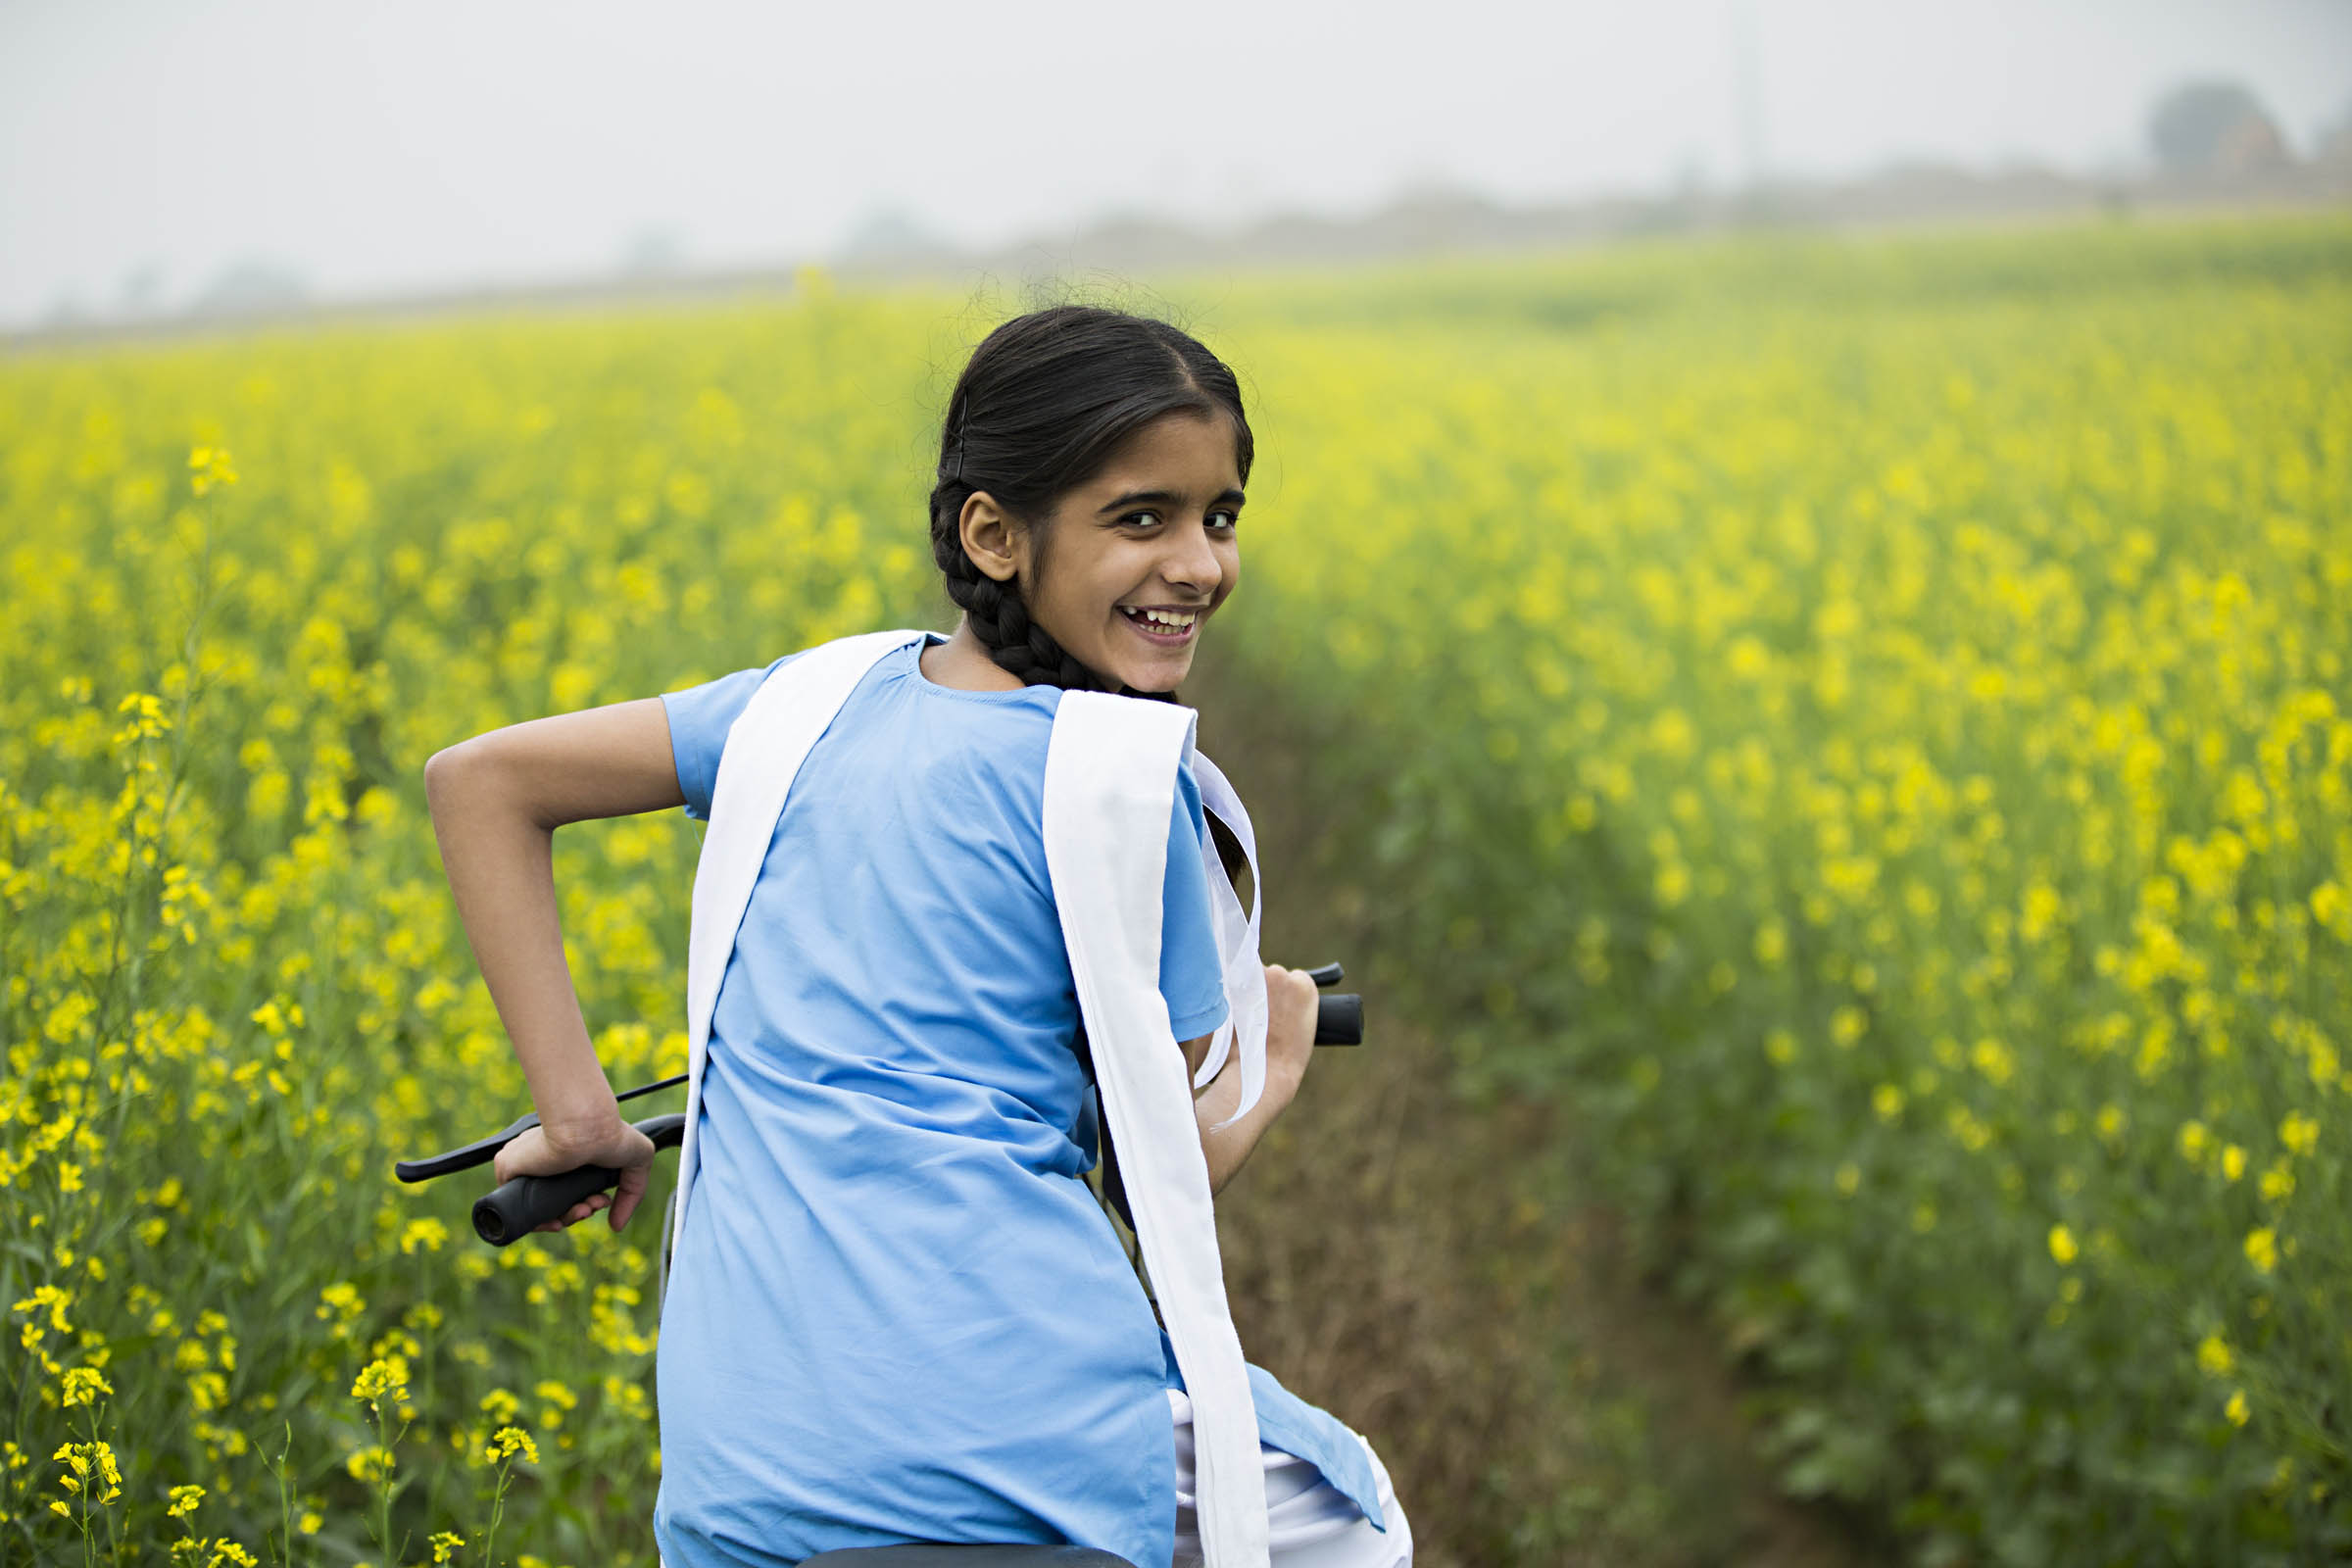
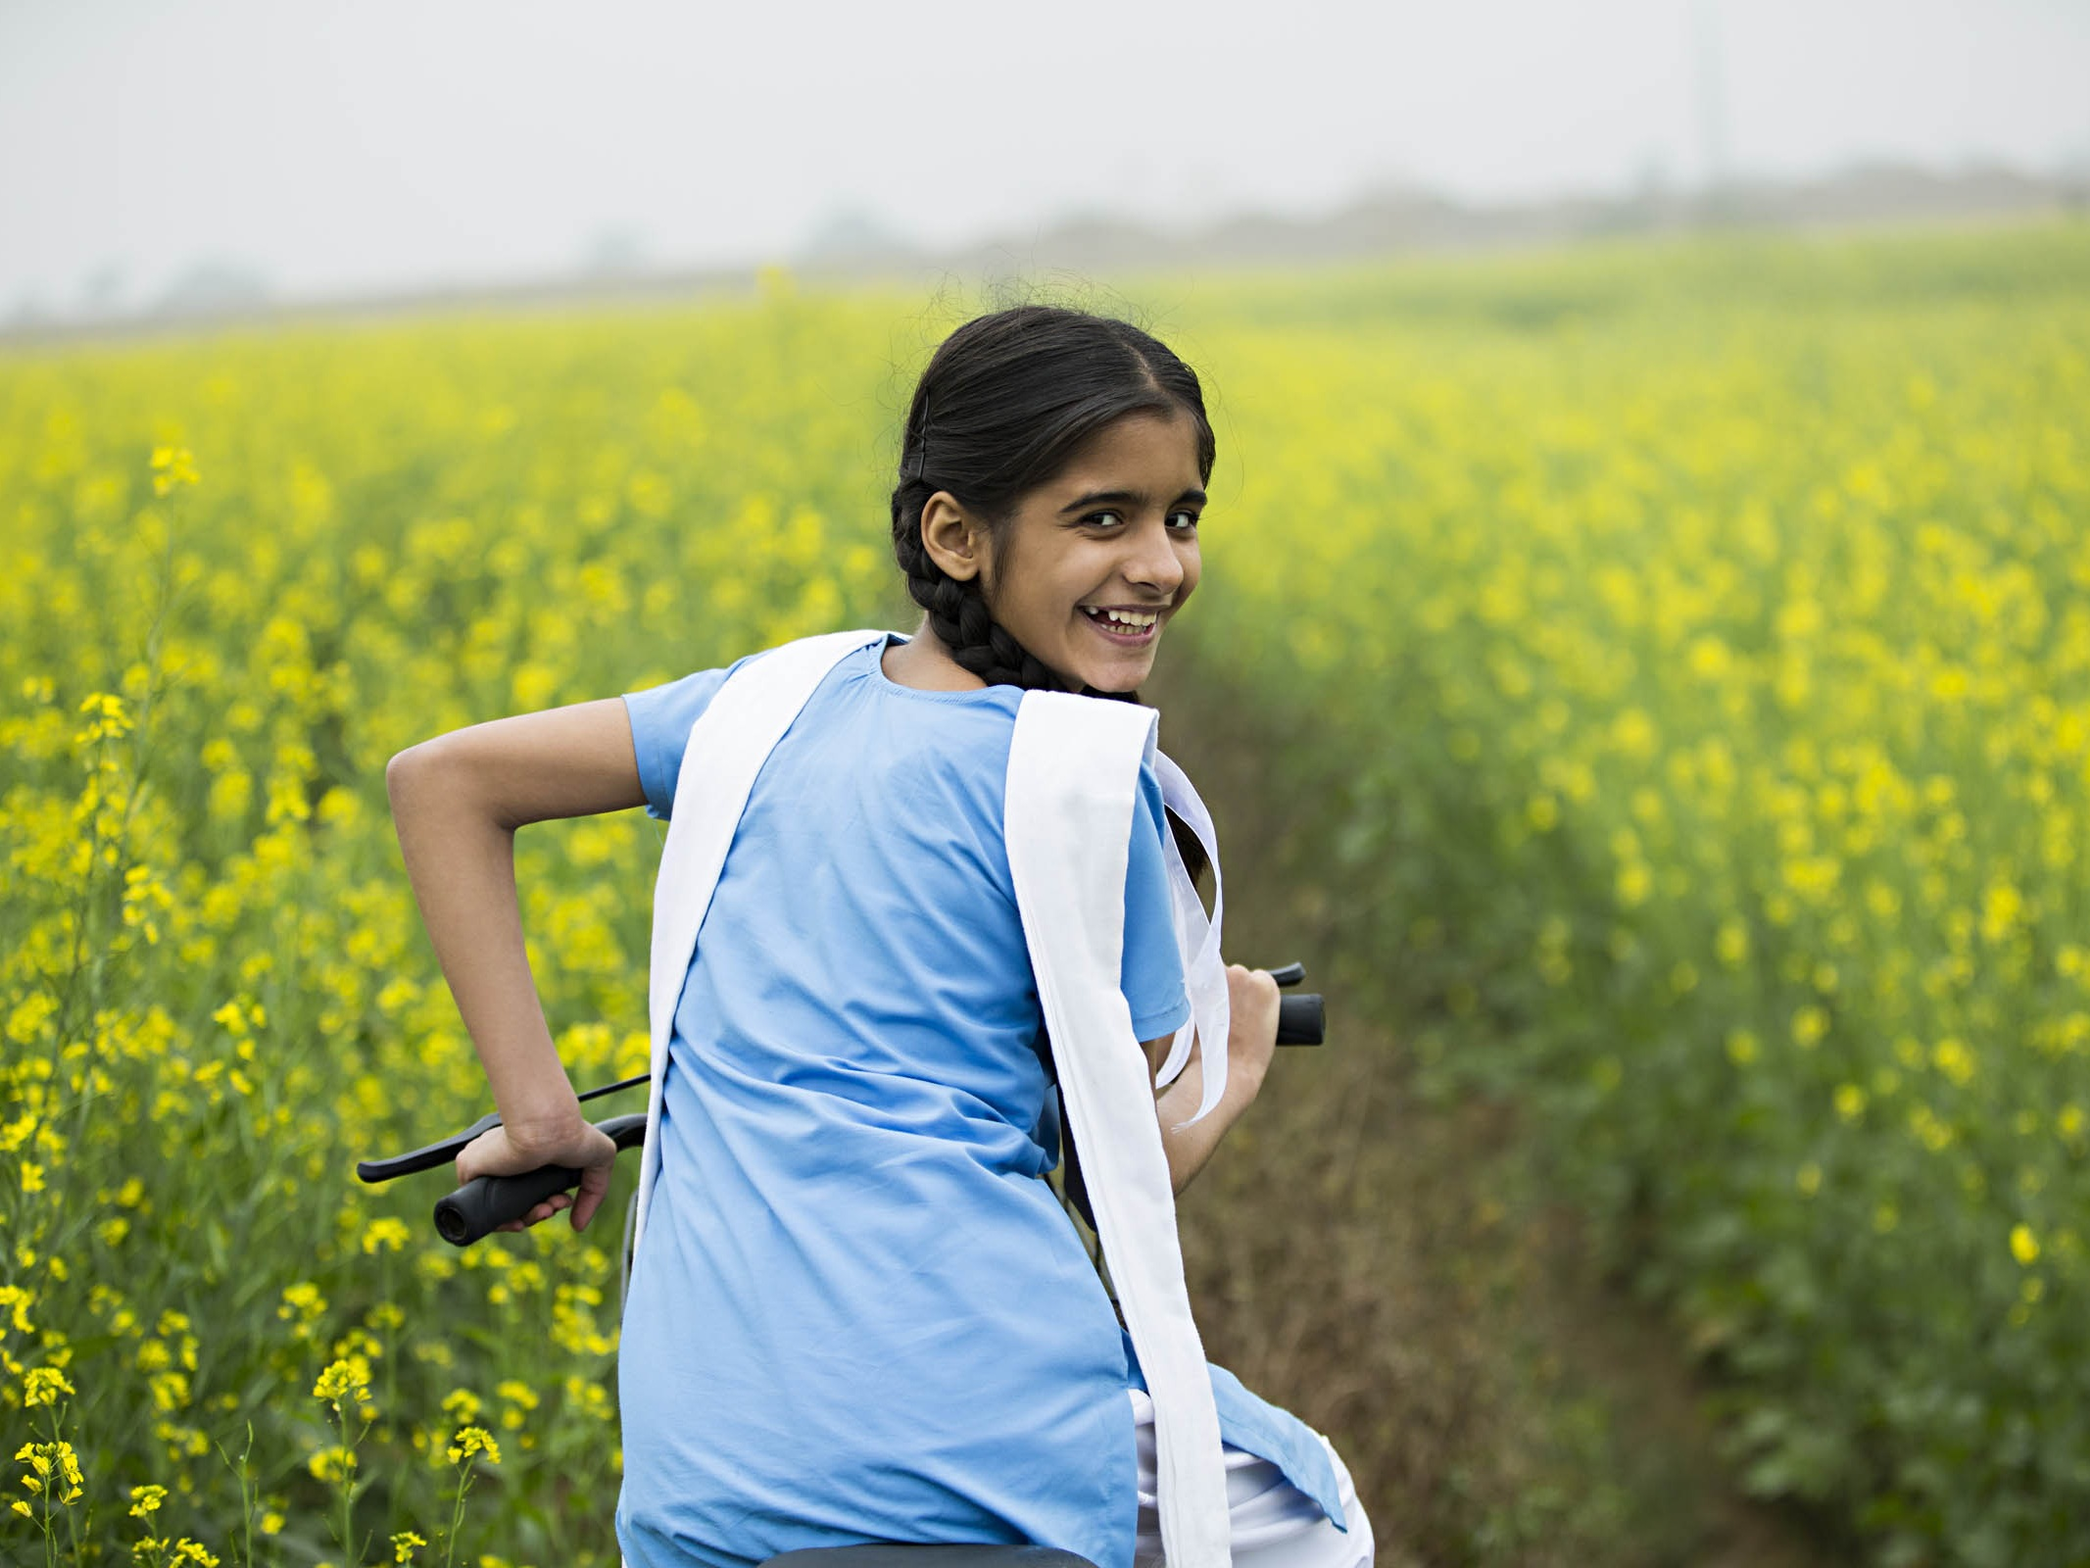
our purpose img

diff --git a/src/pages/ourStory/OurPurpose.jsx b/src/pages/ourStory/OurPurpose.jsx
@@ -82,7 +82,7 @@ const OurPurpose = () => {
                                     <img
                                         src={item.img}
                                         alt="purpose visual"
-                                        className="2xl:w-[600px] xl:w-[500px] lg:w-[450px] md:w[400px] w-full xl:h-[400px] lg:h-[350px] h-[300px]  object-cover"
+                                        className="2xl:w-[600px] xl:w-[500px] lg:w-[450px] md:w[400px] w-full object-contain"
                                     />
                                 </div>
                             </div>

diff --git a/src/pages/Innovation/InnovationThatLeads.jsx b/src/pages/Innovation/InnovationThatLeads.jsx
@@ -232,7 +232,7 @@ function InnovationThatLeads() {
                         <img
                             src={UbtImg1}
                             alt="Innovation"
-                            className="w-full h-full object-cover"
+                            className="w-full h-full object-contain"
                         />
                     </div>
                 </div>
